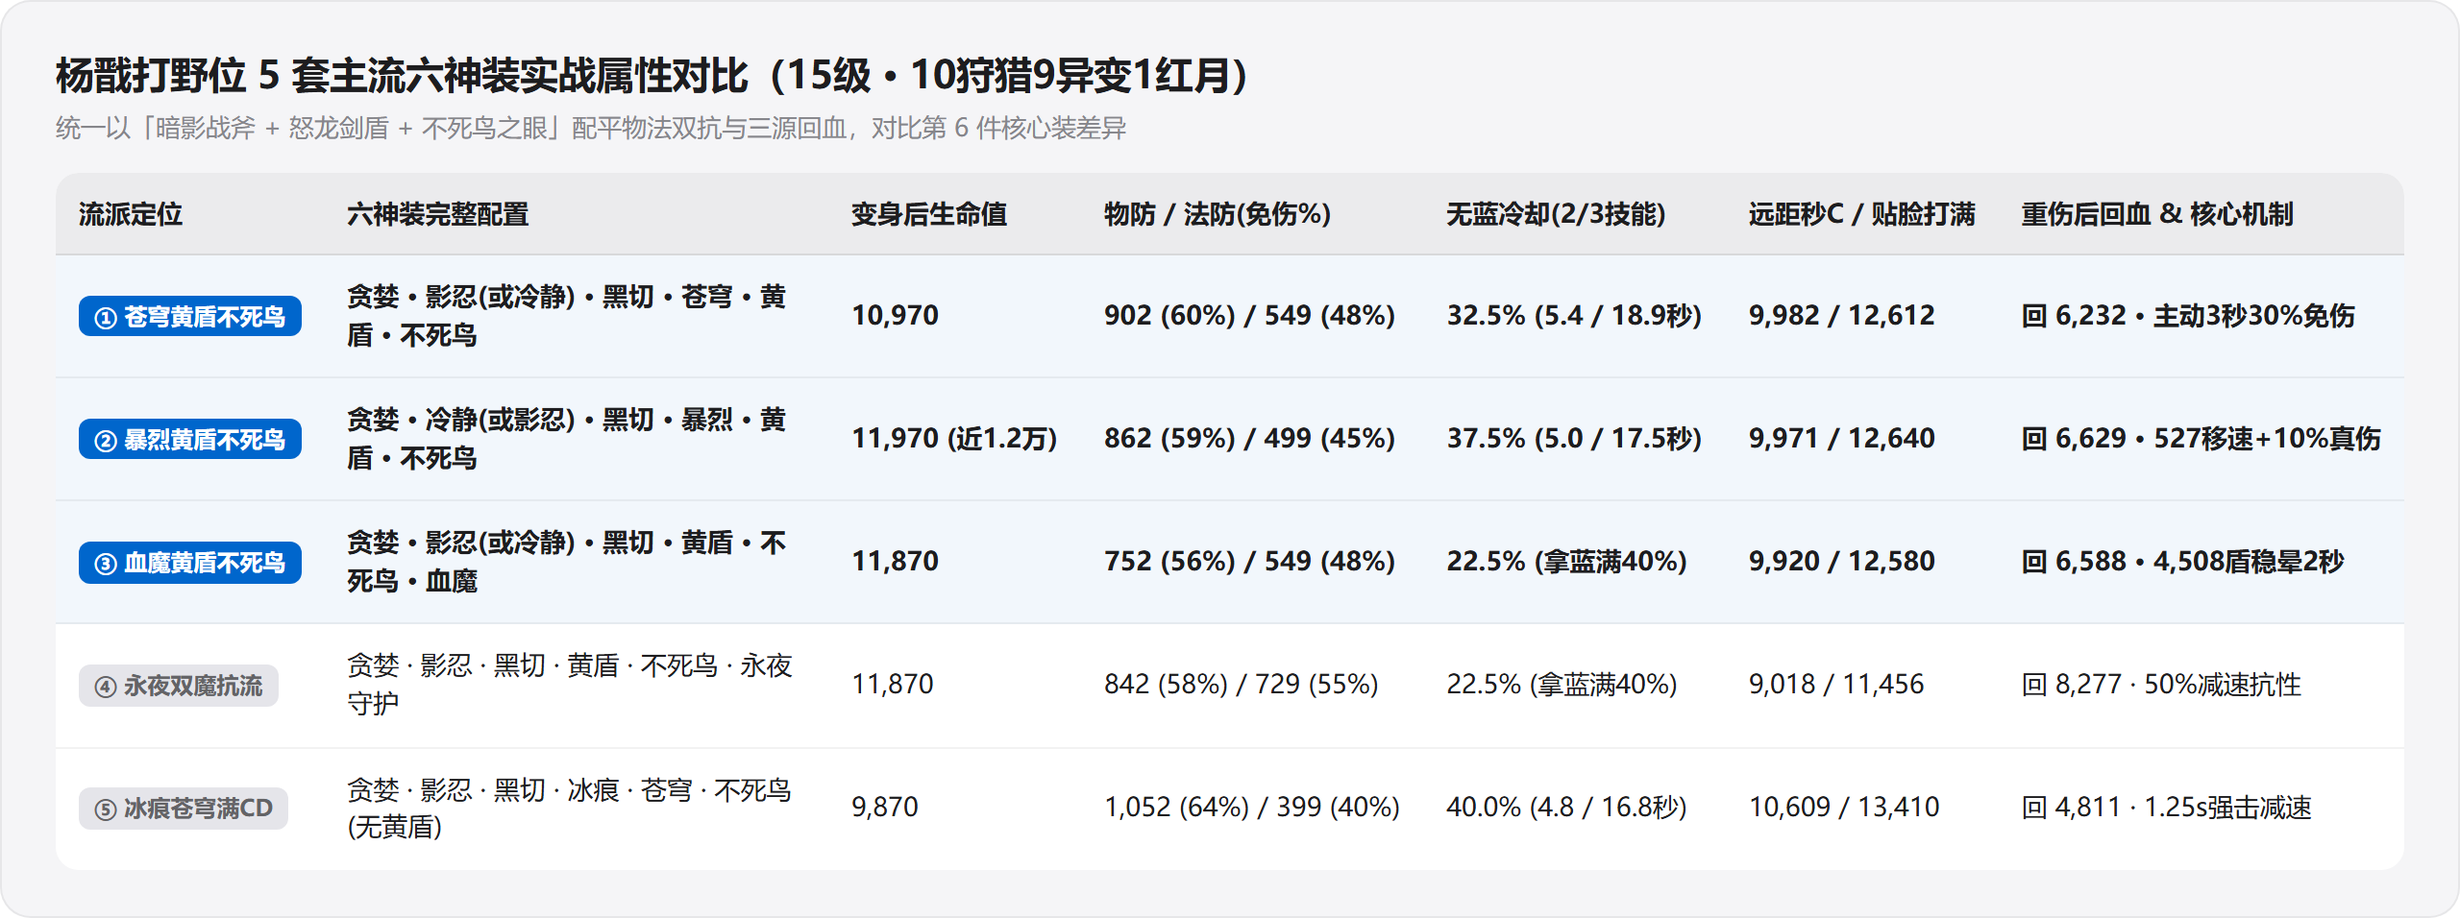
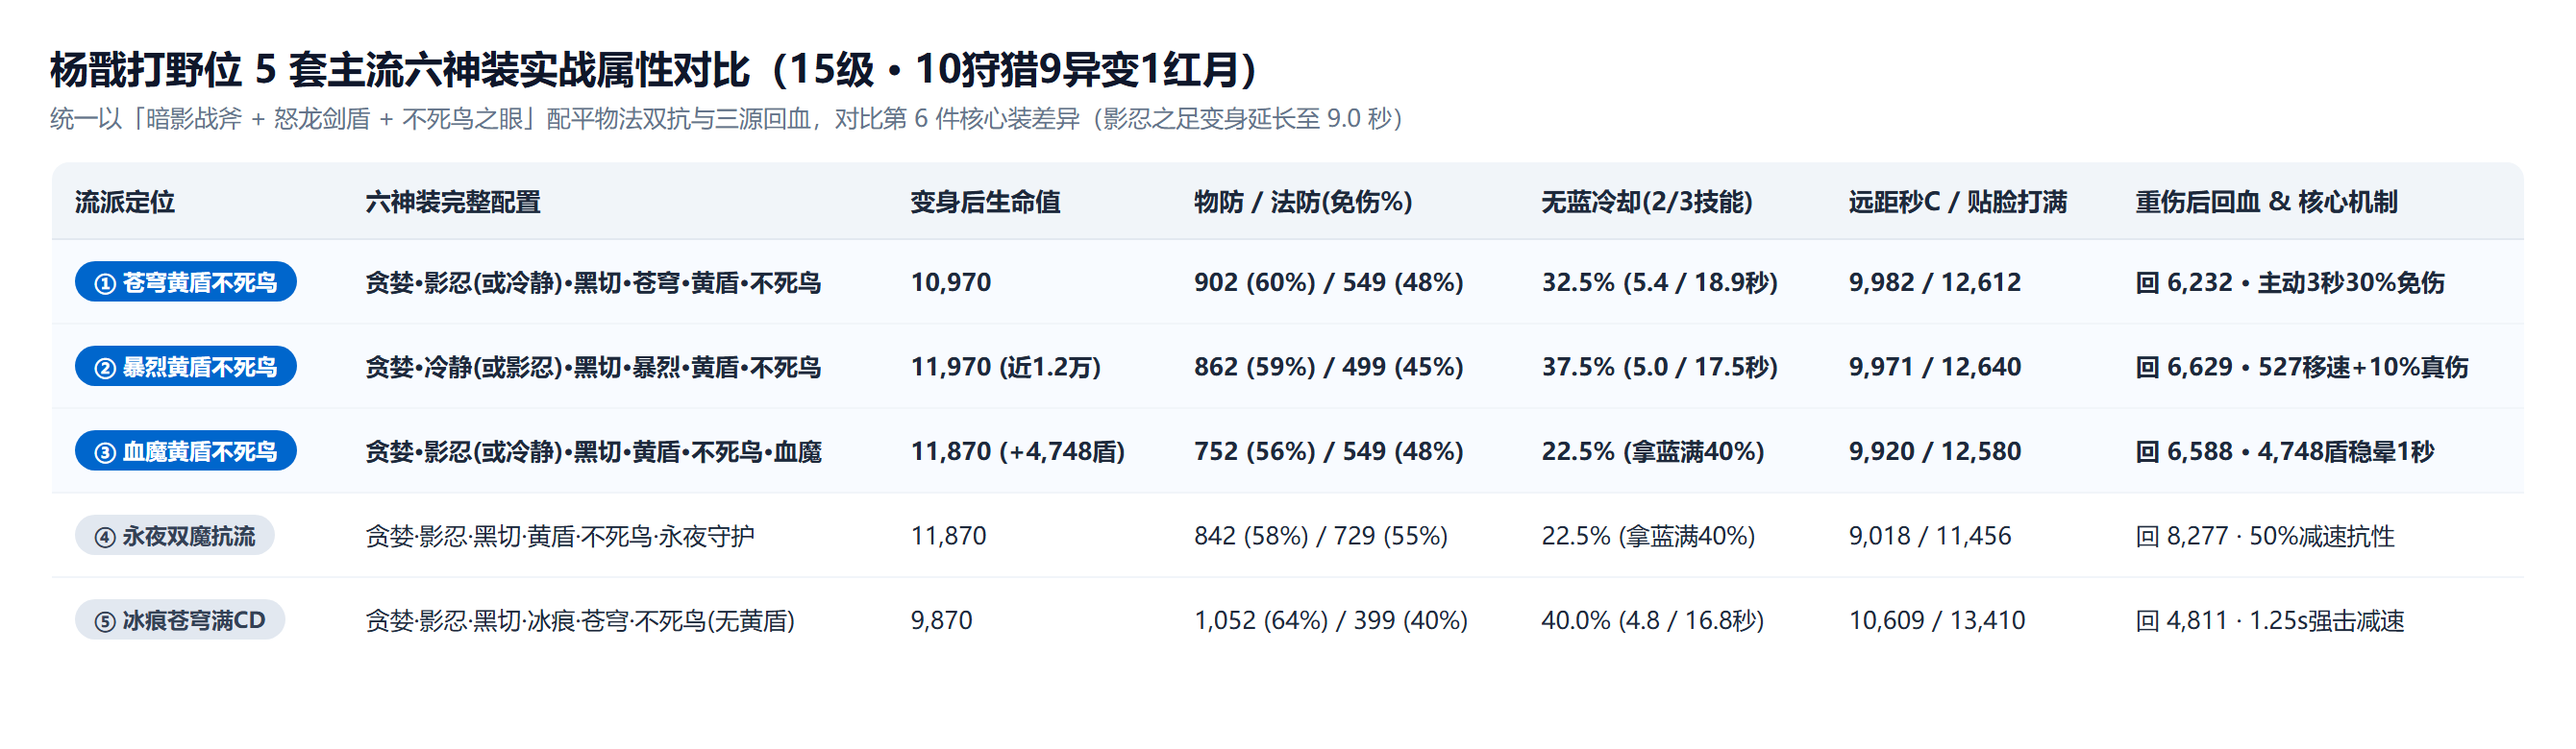
docs(guides): update Yang Jian PNG assets (1s stun & 4748 shield) and README/CHANGELOG

diff --git a/README.md b/README.md
@@ -112,7 +112,9 @@
 本项目基于底层实战推演引擎，提供全期节点打靶与多流派对决示范分析：
 
 - 🏹 **[【赵云打野出装详解】被动三档位机制、12格合成路线与五套神装拆解](docs/guides/zhaoyun_jungle_guide.md)**  
-  *深入拆解：被动三档位免伤与白盾转真血逻辑、12格平滑过渡合成路线、五套主流神装面板伤害对比，以及【杨戬打野与对抗路出装详解（法天象地韧性上限与五套神装拆解）](docs/guides/yangjian_jungle_guide.md)。*
+  *深入拆解：被动三档位免伤与白盾转真血逻辑、12格平滑过渡合成路线、五套主流神装面板伤害对比，。
+- 🔱 **[【杨戬打野出装详解】影忍9秒变身、法天象地韧性机制与五套神装拆解](docs/guides/yangjian_jungle_guide.md)**  
+  *深入拆解：影忍之足 9.0 秒变身 vs 抵抗之靴 6.5 秒变身实测、血魔之怒 4,748 白盾稳晕 1 秒、12 格平滑合成路线与三套标准连招。*
 
 ---
 

diff --git a/CHANGELOG.md b/CHANGELOG.md
@@ -28,7 +28,7 @@
 
 ### 3. 「实战精研社」杨戬 & 赵云五套主流神装矩阵与小程序大厅轮播 (`hero_guides.js` / `index.wxml` / `index.js`)
 - **小程序选人首页新增双英雄精选攻略横滑轮播 (`swiper`)**：支持在「杨戬 · S45 深度实测专栏」与「赵云 · S45 深度实测专栏」之间丝滑横滑切换并一键直达专栏或载入推演室方案 A / B；
-- **升级杨戬与赵云 5 套主流六神装 + 1~12 格平滑合成路线 + 对抗路/打野双分路实测表格**；
+- **升级杨戬与赵云 5 套主流打野六神装 + 1~12 格平滑合成路线 + 影忍 9 秒变身/冰痕 vs 宗师等训练营实测表格**；
 - **小程序导航栏 API 容错加固**：为 `wx.setNavigationBarColor` 与 `wx.setBackgroundColor` 补全 `fail: () => {}` 静默容错回调，彻底消除自定义导航栏（`navigationStyle: "custom"`）页面切换主题时的控制台警告。
 
 ---
